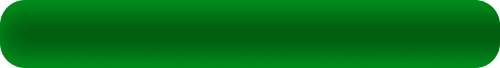
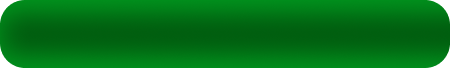
shortened the borto battery bar

diff --git a/app/Dashboard.py b/app/Dashboard.py
@@ -860,7 +860,7 @@ def main(reader):
             voltage_unit = font_bar_label.render("V", True, colors["text"])
             stack_h = voltage_num.get_height() + voltage_unit.get_height()
             stack_top = cy - stack_h // 2
-            num_rect = voltage_num.get_rect(right=bar_left - 8, top=stack_top)
+            num_rect = voltage_num.get_rect(right=bar_left + 12, top=stack_top)
             screen.blit(voltage_num, num_rect.topleft)
             screen.blit(voltage_unit, voltage_unit.get_rect(centerx=num_rect.centerx, top=num_rect.bottom).topleft)
             pct = font_bar_pct.render("%", True, colors["text"])
